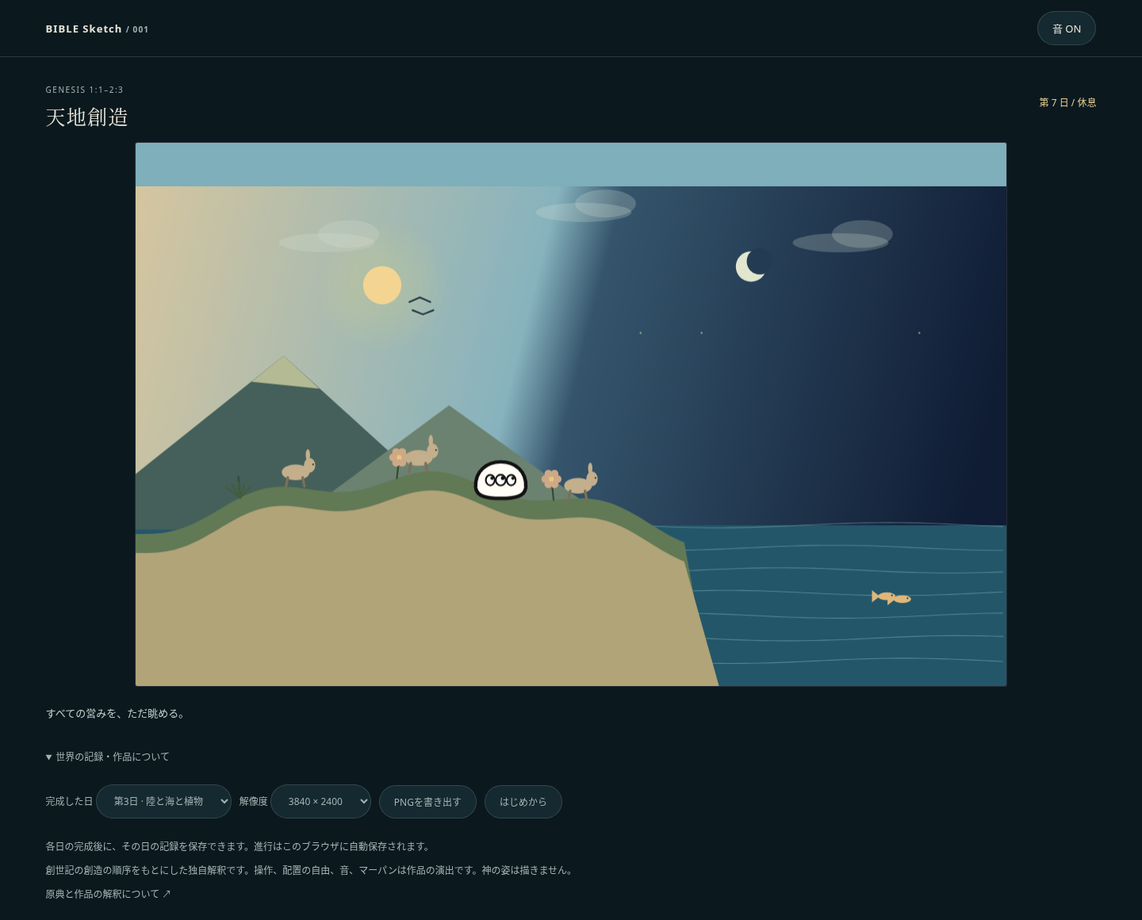
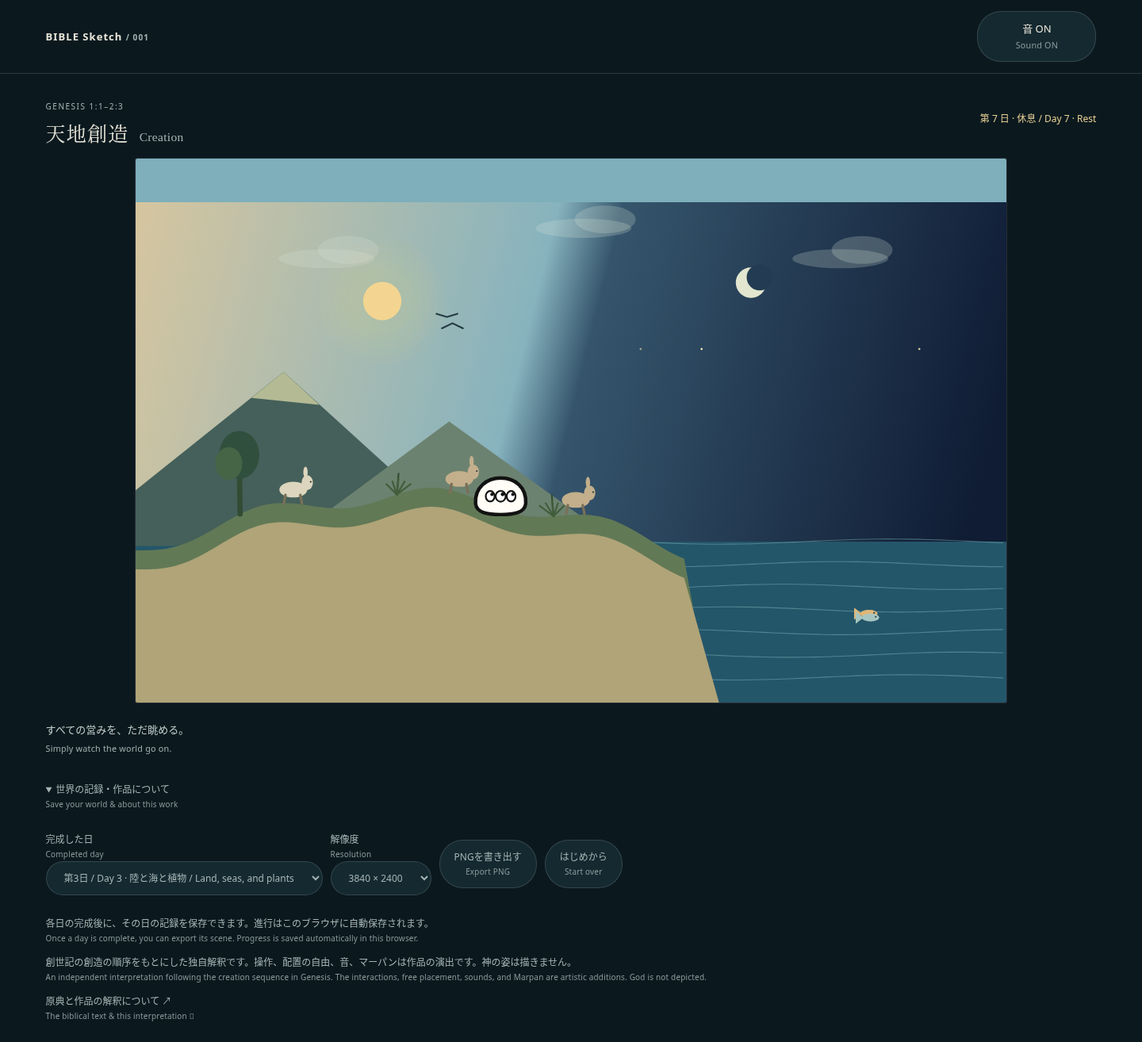
Add Japanese and English throughout BIBLE Sketch

diff --git a/001-creation/sketch.js b/001-creation/sketch.js
@@ -3,18 +3,21 @@ const $=s=>document.querySelector(s), KEY='bible-sketch-creation-v1';
 const fresh=()=>({day:1,light:false,split:0,land:0,plants:[],stars:[],fish:[],birds:[],animals:[],sun:{x:.17,y:.18,placed:false},moon:{x:.83,y:.18,placed:false},marpan:false});
 let world=fresh(),records={},audio=new Soundscape(),marpan,canvas,drag=null,lightAt=-10,exporting=false,blobURL;
 try{const data=JSON.parse(localStorage.getItem(KEY));if(data?.version===1&&data.world?.day>=1&&data.world.day<=7){world=data.world;world.plants.forEach(p=>p.born=-2);records=data.records||{};}}catch(e){}
+const bilingual=(ja,en)=>`${ja} / ${en}`;
+const englishTitles=['','Light and darkness','Sky and waters','Land, seas, and plants','Sun, moon, and stars','Fish and birds','Animals and humankind','Rest'];
 const titles=['','光と闇','天と水','陸と海と植物','太陽と月と星','魚と鳥','動物と人間','休息'];
 function ready(s=world){return [false,s.light,s.split>=1,s.land>=1&&s.plants.length>=3,s.sun.placed&&s.moon.placed&&s.stars.length>=3,s.fish.length>=2&&s.birds.length>=2,s.animals.length>=3&&s.marpan,true][s.day];}
-function persist(){try{localStorage.setItem(KEY,JSON.stringify({version:1,world,records}));}catch(e){$('#notice').textContent='自動保存できません。ページを閉じる前にPNGを保存してください。';}}
-function update(){const s=world;$('#day').textContent=`第 ${s.day} 日 / ${titles[s.day]}`;const hints=['',s.light?'光が生まれました。昼と夜を眺めて、次の日へ。':'暗闇に触れて、光を生み出す。',s.split>=1?'水の間に、空ができました。':'水を上下にドラッグして、空をひらく。',s.land<1?'水を左右にドラッグして、陸を呼び出す。':`陸をタップして植物を育てる。${s.plants.length} / 3 以上`,!s.sun.placed||!s.moon.placed?'上部の太陽と月を、それぞれ空へドラッグ。':`右半分の夜空をタップして星を灯す。${s.stars.length} / 3 以上`,`海に魚、空に鳥を。魚 ${s.fish.length} / 2・鳥 ${s.birds.length} / 2 以上`,s.animals.length<3?`陸に触れて動物を生み出す。${s.animals.length} / 3 以上`:s.marpan?'マーパンも、この世界の一員になりました。':'最後に「マーパンを迎える」を押す。','すべての営みを、ただ眺める。'];$('#hint').textContent=hints[s.day];$('#next').hidden=s.day===7;$('#next').disabled=!ready();$('#welcome').hidden=!(s.day===6&&s.animals.length>=3&&!s.marpan);
+function persist(){try{localStorage.setItem(KEY,JSON.stringify({version:1,world,records}));}catch(e){$('#notice').textContent=bilingual('自動保存できません。ページを閉じる前にPNGを保存してください。','Progress could not be saved. Export your PNGs before closing this page.');}}
+function update(){const s=world;$('#day').textContent=`第 ${s.day} 日 · ${titles[s.day]} / Day ${s.day} · ${englishTitles[s.day]}`;const hints=['',s.light?'光が生まれました。昼と夜を眺めて、次の日へ。':'暗闇に触れて、光を生み出す。',s.split>=1?'水の間に、空ができました。':'水を上下にドラッグして、空をひらく。',s.land<1?'水を左右にドラッグして、陸を呼び出す。':`陸をタップして植物を育てる。${s.plants.length} / 3 以上`,!s.sun.placed||!s.moon.placed?'上部の太陽と月を、それぞれ空へドラッグ。':`右半分の夜空をタップして星を灯す。${s.stars.length} / 3 以上`,`海に魚、空に鳥を。魚 ${s.fish.length} / 2・鳥 ${s.birds.length} / 2 以上`,s.animals.length<3?`陸に触れて動物を生み出す。${s.animals.length} / 3 以上`:s.marpan?'マーパンも、この世界の一員になりました。':'最後に「マーパンを迎える」を押す。','すべての営みを、ただ眺める。'];const englishHints=['',s.light?'Light is born. Take in day and night, then continue.':'Touch the darkness to bring forth light.',s.split>=1?'The sky has opened between the waters.':'Drag the waters up or down to open the sky.',s.land<1?'Drag the waters left or right to reveal the land.':`Tap the land to grow plants. ${s.plants.length} / at least 3`,!s.sun.placed||!s.moon.placed?'Drag both the sun and the moon into the sky.':`Tap the night sky on the right to add stars. ${s.stars.length} / at least 3`,`Tap the sea for fish and the sky for birds. Fish ${s.fish.length} / at least 2 · Birds ${s.birds.length} / at least 2`,s.animals.length<3?`Tap the land to create animals. ${s.animals.length} / at least 3`:s.marpan?'Marpan is now part of this world.':'Finally, press “Welcome Marpan.”','Simply watch the world go on.'];$('#hint').replaceChildren(document.createTextNode(hints[s.day]));const englishHint=document.createElement('span');englishHint.lang='en';englishHint.className='en';englishHint.textContent=englishHints[s.day];$('#hint').append(englishHint);$('#next').hidden=s.day===7;$('#next').disabled=!ready();$('#welcome').hidden=!(s.day===6&&s.animals.length>=3&&!s.marpan);
 if(ready()){records[s.day]={world:structuredClone(s),time:millis()/1000};}
-const selected=$('#export-day').value;$('#export-day').replaceChildren(...Object.keys(records).map(d=>new Option(`第${d}日 · ${titles[d]}`,d)));if(records[selected])$('#export-day').value=selected;else $('#export-day').value=String(s.day);$('#export').disabled=!Object.keys(records).length;persist();}
-function setup(){const stage=$('#stage');canvas=createCanvas(stage.clientWidth,stage.clientHeight);canvas.parent(stage);pixelDensity(Math.min(devicePixelRatio,2));frameRate(30);marpan=new Marpan25D({autoBlink:true,bodyColor:'#fffdf5'});const welcome=document.createElement('button');welcome.id='welcome';welcome.textContent='マーパンを迎える';welcome.hidden=true;$('#next').before(welcome);welcome.onclick=()=>{world.marpan=true;audio.tone(220);update();};canvas.elt.addEventListener('pointerdown',down);canvas.elt.addEventListener('pointermove',move);canvas.elt.addEventListener('pointerup',up);canvas.elt.addEventListener('pointercancel',()=>drag=null);canvas.elt.addEventListener('lostpointercapture',()=>drag=null);new ResizeObserver(()=>{if(!exporting)resizeCanvas(stage.clientWidth,stage.clientHeight);}).observe(stage);update();}
+const selected=$('#export-day').value;$('#export-day').replaceChildren(...Object.keys(records).map(d=>new Option(`第${d}日 / Day ${d} · ${titles[d]} / ${englishTitles[d]}`,d)));if(records[selected])$('#export-day').value=selected;else $('#export-day').value=String(s.day);$('#export').disabled=!Object.keys(records).length;persist();}
+function setup(){const stage=$('#stage');canvas=createCanvas(stage.clientWidth,stage.clientHeight);canvas.parent(stage);pixelDensity(Math.min(devicePixelRatio,2));frameRate(30);marpan=new Marpan25D({autoBlink:true,bodyColor:'#fffdf5'});const welcome=document.createElement('button');welcome.id='welcome';welcome.textContent=bilingual('マーパンを迎える','Welcome Marpan');welcome.hidden=true;$('#next').before(welcome);welcome.onclick=()=>{world.marpan=true;audio.tone(220);update();};canvas.elt.addEventListener('pointerdown',down);canvas.elt.addEventListener('pointermove',move);canvas.elt.addEventListener('pointerup',up);canvas.elt.addEventListener('pointercancel',()=>drag=null);canvas.elt.addEventListener('lostpointercapture',()=>drag=null);new ResizeObserver(()=>{if(!exporting)resizeCanvas(stage.clientWidth,stage.clientHeight);}).observe(stage);update();}
 function draw(){if(exporting)return;render(world,millis()/1000);audio.tick(world.day,millis()/1000);}
 function landY(x){return .72-.10*Math.sin(Math.PI*Math.min(x/.63,1))+.016*Math.sin(x*32);}
 function onLand(x,y){return world.land>=1&&x<.63&&y>=landY(x)-.025&&y<.94;}
 function entity(x,y){return {x,y,seed:Math.random()*100,born:millis()/1000};}
-async function activate(){await audio.start();audio.setDay(world.day);$('#sound').textContent=audio.on?'音 ON':'音 OFF';$('#sound').setAttribute('aria-pressed',String(audio.on));}
+function soundLabel(){const button=$('#sound');button.replaceChildren(document.createTextNode(audio.on?'音 ON':'音 OFF'));const en=document.createElement('span');en.lang='en';en.className='en';en.textContent=audio.on?'Sound ON':'Sound OFF';button.append(en);button.setAttribute('aria-pressed',String(audio.on));}
+async function activate(){await audio.start();audio.setDay(world.day);soundLabel();}
 function position(e){const r=canvas.elt.getBoundingClientRect();return{x:constrain((e.clientX-r.left)/r.width,0,1),y:constrain((e.clientY-r.top)/r.height,0,1)};}
 function down(e){e.preventDefault();activate();const p=position(e);drag={...p,start:p,target:null};if(world.day===4){for(const name of ['sun','moon'])if(dist(p.x*1000,p.y*625,world[name].x*1000,world[name].y*625)<55)drag.target=name;}canvas.elt.setPointerCapture(e.pointerId);}
 function move(e){if(!drag)return;const p=position(e),s=world;drag.x=p.x;drag.y=p.y;if(s.day===2)s.split=Math.max(s.split,Math.min(1,Math.abs(p.y-drag.start.y)*4));if(s.day===3&&s.land<1)s.land=Math.max(s.land,Math.min(1,Math.abs(p.x-drag.start.x)*4));if(s.day===4&&drag.target){s[drag.target].x=constrain(p.x,.06,.94);s[drag.target].y=constrain(p.y,.08,.46);} }
@@ -26,7 +29,7 @@ if(s.day>=2){const top=310-s.split*260,bottom=310+s.split*130;fill('#7eafba');re
 if(s.day>=4){fill(5,15,38,(1-cos(t*.065)) * 20);rect(0,50,1000,390);}
 if(s.land>0){push();translate(0,(1-s.land)*300);fill('#45605a');triangle(-80,445,170,245,390,445);fill('#6c8270');triangle(160,450,360,302,580,460);fill('#b4ba94');triangle(133,275,170,245,211,283);fill('#627956');beginShape();vertex(0,625);for(let x=0;x<=630;x+=5)vertex(x,landY(x/1000)*625);vertex(660,625);endShape(CLOSE);fill('#b0a478');beginShape();vertex(0,625);for(let x=0;x<=630;x+=5)vertex(x,landY(x/1000)*625+22);vertex(670,625);endShape(CLOSE);pop();}
 for(const star of s.stars){fill(255,235,184,180+sin(t+star.seed)*65);circle(star.x*1000,star.y*625,2.5);}
-if(s.day>=4){for(const name of ['sun','moon']){const o=s[name];const phase=t*.065+(name==='moon'?PI:0),dy=o.placed?sin(phase)*24:0;push();translate(o.x*1000+(o.placed?cos(phase)*35:0),o.y*625+dy);if(name==='sun'){for(let i=5;i>0;i--){fill(244,212,137,8);circle(0,0,60+i*17);}fill('#f3d591');circle(0,0,44);}else{fill('#e2e6cf');circle(0,0,35);fill('#243c53');circle(10,-6,30);}if(!o.placed){fill('#e8e4d8');textSize(12);textAlign(CENTER);text(name==='sun'?'太陽 ↕':'月 ↕',0,47);}pop();}}
+if(s.day>=4){for(const name of ['sun','moon']){const o=s[name];const phase=t*.065+(name==='moon'?PI:0),dy=o.placed?sin(phase)*24:0;push();translate(o.x*1000+(o.placed?cos(phase)*35:0),o.y*625+dy);if(name==='sun'){for(let i=5;i>0;i--){fill(244,212,137,8);circle(0,0,60+i*17);}fill('#f3d591');circle(0,0,44);}else{fill('#e2e6cf');circle(0,0,35);fill('#243c53');circle(10,-6,30);}if(!o.placed){fill('#e8e4d8');textSize(12);textAlign(CENTER);text(name==='sun'?'太陽 / Sun ↕':'月 / Moon ↕',0,47);}pop();}}
 for(const p of s.plants){const growth=constrain((t-p.born)/1.2,0,1);push();translate(p.x*1000,p.y*625);scale(growth);const type=Math.floor(p.seed)%3,sway=sin(t+p.seed)*3;stroke('#324c34');strokeWeight(type===0?6:2);line(0,0,sway,type===0?-65:-24);noStroke();if(type===0){fill('#304f3d');ellipse(sway,-68,46,55);fill('#466547');ellipse(sway-12,-58,31,38);}else if(type===1){fill('#cfa987');for(let a=0;a<6;a++){ellipse(sway+cos(a*PI/3)*7,-24+sin(a*PI/3)*7,9,9);}fill('#e6ca7d');circle(sway,-24,6);}else{stroke('#425e3b');for(let i=-2;i<=2;i++)line(0,0,i*7+sway,-18+abs(i)*3);}pop();}
 for(const f of s.fish){const x=660+((f.x*1000-660+t*(7+f.seed%10))%310),y=constrain(f.y*625,465,600)+sin(t+f.seed)*4;push();translate(x,y);fill(f.seed%2>1?'#e0b77a':'#a7c5c0');ellipse(0,0,20,9);triangle(-8,0,-17,-7,-17,7);fill('#153b4c');circle(6,-1,2);pop();}
 for(const b of s.birds){const x=(b.x*1000+t*(9+b.seed%10))%1050-25,y=b.y*625+sin(t+b.seed)*10;stroke('#243a43');strokeWeight(2);noFill();const flap=sin(t*4+b.seed)*7;beginShape();vertex(x-12,y+flap);vertex(x,y);vertex(x+12,y+flap);endShape();noStroke();}
@@ -35,8 +38,8 @@ if(s.marpan){const x=410+sin(t*.18)*12;marpan.drawAt(x,landY(x/1000)*625-17+sin(
 // Finely spaced grain is deterministic, so exports match the scene without assets.
 fill(255,255,230,9);for(let i=0;i<230;i++)circle((i*137.3)%1000,(i*79.7)%625,1);pop();}
 $('#next').onclick=()=>{if(!ready()||world.day===7)return;world.day++;audio.setDay(world.day);update();};
-$('#sound').onclick=async()=>{if(!audio.ctx)await activate();else{audio.toggle();$('#sound').textContent=audio.on?'音 ON':'音 OFF';$('#sound').setAttribute('aria-pressed',String(audio.on));}};
-$('#reset').onclick=()=>{if(confirm('この世界と各日の記録を消して、はじめから始めますか？')){world=fresh();records={};lightAt=-10;audio.layers.forEach(g=>g.gain.setTargetAtTime(0,audio.ctx.currentTime,.3));audio.layers=[];update();}};
+$('#sound').onclick=async()=>{if(!audio.ctx)await activate();else{audio.toggle();soundLabel();}};
+$('#reset').onclick=()=>{if(confirm(bilingual('この世界と各日の記録を消して、はじめから始めますか？','Delete this world and all daily records and start over?'))){world=fresh();records={};lightAt=-10;audio.layers.forEach(g=>g.gain.setTargetAtTime(0,audio.ctx.currentTime,.3));audio.layers=[];update();}};
 $('#stage').addEventListener('keydown',e=>{if(e.key!=='Enter'&&e.key!==' ')return;e.preventDefault();activate();const s=world;if(s.day===2)s.split=1;else if(s.day===3&&s.land<1)s.land=1;else if(s.day===4){s.sun.placed=s.moon.placed=true;tap(.55+Math.random()*.4,.1+Math.random()*.3);}else if(s.day===5){tap(.8,.84);tap(.3,.25);}else tap(.08+Math.random()*.48,.8);update();});
-$('#export').onclick=()=>{const record=records[$('#export-day').value];if(!record)return;exporting=true;$('#export').disabled=true;const w=width,h=height,d=pixelDensity();try{pixelDensity(1);const out=Number($('#resolution').value);resizeCanvas(out,out*625/1000,true);render(record.world,Math.max(record.time,...record.world.plants.map(p=>p.born+2)));canvas.elt.toBlob(blob=>{if(!blob){$('#notice').textContent='書き出せませんでした。低い解像度でお試しください。';return;}if(blobURL)URL.revokeObjectURL(blobURL);blobURL=URL.createObjectURL(blob);$('#image').src=blobURL;$('#download').href=blobURL;$('#download').download=`bible-sketch-001-day-${record.world.day}.png`;$('#preview').showModal();$('#share').onclick=async()=>{const file=new File([blob],$('#download').download,{type:'image/png'});try{if(navigator.canShare?.({files:[file]}))await navigator.share({files:[file],title:'天地創造'});else $('#notice').textContent='共有に非対応です。PNGを保存、または画像を長押ししてください。';}catch(e){if(e.name!=='AbortError')$('#notice').textContent='共有できませんでした。画像の長押し保存をお試しください。';}};},'image/png');}catch(e){$('#notice').textContent='書き出しに失敗しました。低い解像度でお試しください。';}finally{pixelDensity(d);resizeCanvas(w,h,true);exporting=false;$('#export').disabled=false;}};
+$('#export').onclick=()=>{const record=records[$('#export-day').value];if(!record)return;exporting=true;$('#export').disabled=true;const w=width,h=height,d=pixelDensity();try{pixelDensity(1);const out=Number($('#resolution').value);resizeCanvas(out,out*625/1000,true);render(record.world,Math.max(record.time,...record.world.plants.map(p=>p.born+2)));canvas.elt.toBlob(blob=>{if(!blob){$('#notice').textContent=bilingual('書き出せませんでした。低い解像度でお試しください。','Could not export the image. Try a lower resolution.');return;}if(blobURL)URL.revokeObjectURL(blobURL);blobURL=URL.createObjectURL(blob);$('#image').src=blobURL;$('#download').href=blobURL;$('#download').download=`bible-sketch-001-day-${record.world.day}.png`;$('#preview').showModal();$('#share').onclick=async()=>{const file=new File([blob],$('#download').download,{type:'image/png'});try{if(navigator.canShare?.({files:[file]}))await navigator.share({files:[file],title:'天地創造 / Creation'});else $('#notice').textContent=bilingual('共有に非対応です。PNGを保存、または画像を長押ししてください。','Sharing is not supported. Use Save PNG, or touch and hold the image.');}catch(e){if(e.name!=='AbortError')$('#notice').textContent=bilingual('共有できませんでした。画像の長押し保存をお試しください。','Could not share the image. Try touching and holding it to save.');}};},'image/png');}catch(e){$('#notice').textContent=bilingual('書き出しに失敗しました。低い解像度でお試しください。','Export failed. Try a lower resolution.');}finally{pixelDensity(d);resizeCanvas(w,h,true);exporting=false;$('#export').disabled=false;}};
 $('#close').onclick=()=>$('#preview').close();document.addEventListener('visibilitychange',()=>{if(audio.ctx){if(document.hidden)audio.ctx.suspend();else if(audio.on)audio.ctx.resume().catch(()=>{});}});

diff --git a/001-creation/index.html b/001-creation/index.html
@@ -1,1 +1,1 @@
-<!doctype html><html lang="ja"><meta charset="utf-8"><meta name="viewport" content="width=device-width,initial-scale=1"><title>天地創造 — BIBLE Sketch No.001</title><link rel="stylesheet" href="../shared/style.css"><body class="experience"><header><a href="../">BIBLE Sketch <span> / 001</span></a><button id="sound" aria-pressed="false">音を有効にする</button></header><div class="heading"><div><p>GENESIS 1:1–2:3</p><h1>天地創造</h1></div><span class="day" id="day"></span></div><main id="stage" tabindex="0" aria-label="創造する世界。タップとドラッグで操作。キーボードではEnterで創造できます。"></main><div class="controls"><p id="hint" role="status"></p><button id="next" disabled>次の日へ →</button></div><div class="tools"><details><summary>世界の記録・作品について</summary><div class="tool-row"><label>完成した日 <select id="export-day" aria-label="書き出す日"></select></label><label>解像度 <select id="resolution"><option value="2560">2560 × 1600</option><option value="3840">3840 × 2400</option></select></label><button id="export" disabled>PNGを書き出す</button><button id="reset">はじめから</button></div><p id="notice">各日の完成後に、その日の記録を保存できます。進行はこのブラウザに自動保存されます。</p><p>創世記の創造の順序をもとにした独自解釈です。操作、配置の自由、音、マーパンは作品の演出です。神の姿は描きません。</p><a href="../docs/about.html">原典と作品の解釈について ↗</a></details></div><dialog id="preview"><img id="image" alt="完成した世界のPNGプレビュー"><p>スマートフォンでは画像を長押しして保存できます。</p><div class="tool-row"><a id="download" download>PNGを保存 ↗</a><button id="share">共有・写真へ保存</button><button id="close">閉じる</button></div></dialog><script src="../vendor/p5.min.js"></script><script src="../shared/marpan-25d.js"></script><script src="sound.js"></script><script src="sketch.js"></script></body></html>
+<!doctype html><html lang="ja"><meta charset="utf-8"><meta name="viewport" content="width=device-width,initial-scale=1"><title>天地創造 / Creation — BIBLE Sketch No.001</title><link rel="stylesheet" href="../shared/style.css"><body class="experience"><header><a href="../">BIBLE Sketch <span> / 001</span></a><button id="sound" aria-pressed="false">音を有効にする<span class="en" lang="en">Enable sound</span></button></header><div class="heading"><div><p>GENESIS 1:1–2:3</p><h1>天地創造 <span class="en-title" lang="en">Creation</span></h1></div><span class="day" id="day"></span></div><main id="stage" tabindex="0" aria-label="創造する世界。タップとドラッグで操作。キーボードではEnterで創造できます。 / Tap and drag to create your world. Keyboard: press Enter to create."></main><div class="controls"><p id="hint" role="status"></p><button id="next" disabled>次の日へ →<span class="en" lang="en">Next day →</span></button></div><div class="tools"><details><summary>世界の記録・作品について<span class="en" lang="en">Save your world & about this work</span></summary><div class="tool-row"><label>完成した日 <span class="en" lang="en">Completed day </span><select id="export-day" aria-label="書き出す日 / Day to export"></select></label><label>解像度 <span class="en" lang="en">Resolution </span><select id="resolution"><option value="2560">2560 × 1600</option><option value="3840">3840 × 2400</option></select></label><button id="export" disabled>PNGを書き出す<span class="en" lang="en">Export PNG</span></button><button id="reset">はじめから<span class="en" lang="en">Start over</span></button></div><p id="notice">各日の完成後に、その日の記録を保存できます。進行はこのブラウザに自動保存されます。<span class="en" lang="en">Once a day is complete, you can export its scene. Progress is saved automatically in this browser.</span></p><p>創世記の創造の順序をもとにした独自解釈です。操作、配置の自由、音、マーパンは作品の演出です。神の姿は描きません。<span class="en" lang="en">An independent interpretation following the creation sequence in Genesis. The interactions, free placement, sounds, and Marpan are artistic additions. God is not depicted.</span></p><a href="../docs/about.html">原典と作品の解釈について ↗<span class="en" lang="en">The biblical text & this interpretation ↗</span></a></details></div><dialog id="preview"><img id="image" alt="完成した世界のPNGプレビュー / PNG preview of your completed world"><p>スマートフォンでは画像を長押しして保存できます。<span class="en" lang="en">On a smartphone, touch and hold the image to save it.</span></p><div class="tool-row"><a id="download" download>PNGを保存 ↗<span class="en" lang="en">Save PNG ↗</span></a><button id="share">共有・写真へ保存<span class="en" lang="en">Share / save image</span></button><button id="close">閉じる<span class="en" lang="en">Close</span></button></div></dialog><script src="../vendor/p5.min.js"></script><script src="../shared/marpan-25d.js"></script><script src="sound.js"></script><script src="sketch.js"></script></body></html>

diff --git a/shared/style.css b/shared/style.css
@@ -1,3 +1,6 @@
 :root{color-scheme:dark;--paper:#e8e4d8;--muted:#a4b4b3;--line:#ffffff24;--accent:#e6ce92}*{box-sizing:border-box}body{margin:0;background:#0b191f;color:var(--paper);font-family:system-ui,-apple-system,'Noto Sans JP',sans-serif}a{color:inherit;text-decoration:none}button,select{font:inherit;color:inherit;background:#142930;border:1px solid var(--line);border-radius:30px;padding:11px 18px;cursor:pointer}button:disabled{opacity:.35;cursor:default}button:hover:enabled,a:hover{color:var(--accent)}:focus-visible{outline:2px solid var(--accent);outline-offset:5px}header{display:flex;justify-content:space-between;align-items:center;padding:25px 5vw;border-bottom:1px solid var(--line);letter-spacing:.08em;font-size:13px}header>a{font-weight:600}header span{color:var(--muted);font-size:10px}.gallery main{max-width:1120px;margin:70px auto;padding:0 5vw}.eyebrow{font-size:12px;letter-spacing:.25em;color:var(--accent)}h1{font-family:Georgia,serif;font-size:clamp(70px,13vw,150px);font-weight:400;line-height:.85;letter-spacing:-.05em;margin:30px 0}h1 i{font-weight:400;color:#b8c7bf}.intro{line-height:2;color:var(--muted);margin:35px 0 60px}.work{display:grid;grid-template-columns:1.4fr 1fr;border-top:1px solid var(--line);padding-top:24px;gap:40px}.cover{position:relative;overflow:hidden;min-height:280px;background:linear-gradient(130deg,#d5bd89,#82aeb0 48%,#233a53);border-radius:3px}.orb{position:absolute;width:70px;height:70px;border-radius:50%;background:#f8e5aa;top:40px;left:25%;box-shadow:0 0 70px #eed29e}.hill{position:absolute;width:130%;height:160px;background:#243f3b;border-radius:50%;bottom:-70px;left:-40%}.cover small{position:absolute;bottom:25px;right:25px;letter-spacing:.2em}.work-info{align-self:center}.work-info>span{font-size:10px;letter-spacing:.15em;color:var(--accent)}h2{font-family:serif;font-weight:400;font-size:36px}h2 b{float:right;font-weight:400}.work-info p,footer{color:var(--muted);font-size:12px;line-height:1.9}footer{margin-top:65px;padding:25px 0;border-top:1px solid var(--line)}.experience{min-height:100dvh;display:flex;flex-direction:column}.experience header{padding:14px 4vw}.heading{padding:24px 4vw 16px;display:flex;align-items:center;justify-content:space-between;gap:15px}.heading h1{font-family:serif;font-size:25px;letter-spacing:.05em;line-height:1.3;margin:0}.heading p{font-size:10px;color:var(--muted);letter-spacing:.15em}.day{color:var(--accent);font-size:12px}#stage{position:relative;margin:0 4vw;min-height:260px;height: min(62vh,650px);border:1px solid var(--line);overflow:hidden;border-radius:3px;background:#050b15}canvas{display:block;width:100%!important;height:100%!important;touch-action:none}#stage:focus-visible{outline-offset:1px}.controls{display:flex;justify-content:space-between;align-items:center;gap:15px;padding:22px 4vw}#hint{font-size:13px;line-height:1.8;margin:0;color:#c2ceca}#next{white-space:nowrap;background:var(--paper);color:#18312e}.tools{margin:0 4vw 24px;color:var(--muted);font-size:12px}summary{cursor:pointer;padding:12px 0}.tool-row{display:flex;flex-wrap:wrap;align-items:center;gap:10px;padding:14px 0}dialog{background:#10232a;color:var(--paper);border:1px solid var(--line);max-width:94vw;width:620px;border-radius:8px}dialog::backdrop{background:#000b}dialog img{width:100%;height:auto}dialog p{font-size:13px;line-height:1.8}.sr-only{position:absolute;width:1px;height:1px;overflow:hidden;clip-path:inset(50%)}@media(max-width:600px){.work{grid-template-columns:1fr;gap:15px}.gallery main{margin-top:50px}.cover{min-height:220px}#stage{margin:0 12px;height:55dvh}.heading{padding:18px 16px}.controls{padding:18px 16px;align-items:flex-start}.controls p{max-width:62%}button{padding:10px 14px;font-size:12px}.tools{margin:0 16px}.heading h1{font-size:22px}}
 /* Keep circles and the shared Marpan design intact at every viewport size. */
 #stage{width:calc(100% - 8vw);max-width:1100px;align-self:center;aspect-ratio:8/5;height:auto;min-height:0;margin-inline:auto;flex-shrink:0}@media(max-width:600px){#stage{width:calc(100% - 24px);height:auto;min-height:0}.controls{flex-wrap:wrap}.controls p{flex:1;min-width:170px;max-width:none}}
+/* Japanese and English are always shown together. */
+.en{display:block;font-size:.83em;line-height:1.6;letter-spacing:.02em;font-weight:400;opacity:.82;margin-top:.3em}.en-title{display:inline-block;font:400 .62em Georgia,serif;letter-spacing:.02em;color:var(--muted);margin-left:.35em}.day{max-width:42%;text-align:right;line-height:1.7;overflow-wrap:anywhere}.eyebrow .en{text-transform:none;letter-spacing:.1em}.cover small{max-width:80%}button{white-space:normal}.tool-row label{max-width:100%}select{max-width:100%;font-size:12px}.controls{align-items:center}.controls #hint{flex:1;min-width:0}.controls button{flex-shrink:0}#next{white-space:normal}#welcome{max-width:220px}dialog a{line-height:1.6}@media(max-width:600px){header{gap:12px}.heading h1 .en-title{display:block;margin:4px 0 0}.day{font-size:10px;max-width:48%}.controls{align-items:flex-start;gap:12px}.controls #hint{flex-basis:100%}.controls #next{margin-left:auto}.tool-row label{width:100%}.tool-row select{max-width:100%}#welcome{max-width:60%}}
+#sound{width:150px;min-height:60px;flex-shrink:0}

diff --git a/docs/about.html b/docs/about.html
@@ -1,1 +1,1 @@
-<!doctype html><html lang="ja"><meta charset="utf-8"><meta name="viewport" content="width=device-width,initial-scale=1"><title>天地創造について</title><link rel="stylesheet" href="../shared/style.css"><body class="gallery"><header><a href="../001-creation/">← 天地創造に戻る</a><span>BIBLE Sketch / NOTES</span></header><main><p class="eyebrow">NO.001 — ARTIST'S NOTE</p><h2>世界をつくる手。</h2><p class="intro">何かを加えるたびに、世界は少しずつ変わる。<br>けれど、それまでにつくったものは、そこに残り続ける。<br>この作品では、あなたの操作そのものが創造です。</p><h2>原典から受け継いだもの</h2><p class="intro">創世記1章〜2章3節の順序を用います。第1日：光と闇。第2日：水を分ける天。第3日：陸・海・植物。第4日：天体。第5日：水の生物と鳥。第6日：陸の動物と人間。第7日：休息。</p><h2>作品として加えたもの</h2><p class="intro">タップやドラッグ、配置や数の自由、達成に必要な数、成長アニメーション、横から見る風景、昼夜の共存、天体の短い周期、音風景は独自の演出です。マーパンは人間を象徴するキャラクターとして登場します。神の姿そのものは描きません。聖書の翻訳本文は引用していません。</p><p class="intro">宗教教育や原典の厳密な再現ではなく、創造する行為と、その後の世界を見守る時間を体験するための作品です。</p></main></body></html>
+<!doctype html><html lang="ja"><meta charset="utf-8"><meta name="viewport" content="width=device-width,initial-scale=1"><title>天地創造について / About Creation</title><link rel="stylesheet" href="../shared/style.css"><body class="gallery"><header><a href="../001-creation/">← 天地創造に戻る<span class="en" lang="en">← Back to Creation</span></a><span>BIBLE Sketch / NOTES</span></header><main><p class="eyebrow">NO.001 — ARTIST'S NOTE</p><h2>世界をつくる手。<span class="en" lang="en">The hands that create a world.</span></h2><p class="intro">何かを加えるたびに、世界は少しずつ変わる。<br>けれど、それまでにつくったものは、そこに残り続ける。<br>この作品では、あなたの操作そのものが創造です。<span class="en" lang="en">With each addition, the world changes a little.<br>Everything you have created remains.<br>In this work, your actions become the act of creation.</span></p><h2>原典から受け継いだもの<span class="en" lang="en">What comes from the biblical text</span></h2><p class="intro">創世記1章〜2章3節の順序を用います。第1日：光と闇。第2日：水を分ける天。第3日：陸・海・植物。第4日：天体。第5日：水の生物と鳥。第6日：陸の動物と人間。第7日：休息。<span class="en" lang="en">The sequence follows Genesis 1:1–2:3. Day 1: light and darkness. Day 2: the sky separating the waters. Day 3: land, seas, and plants. Day 4: celestial lights. Day 5: aquatic creatures and birds. Day 6: land animals and humankind. Day 7: rest.</span></p><h2>作品として加えたもの<span class="en" lang="en">What this work adds</span></h2><p class="intro">タップやドラッグ、配置や数の自由、達成に必要な数、成長アニメーション、横から見る風景、昼夜の共存、天体の短い周期、音風景は独自の演出です。マーパンは人間を象徴するキャラクターとして登場します。神の姿そのものは描きません。聖書の翻訳本文は引用していません。<span class="en" lang="en">Tapping and dragging, freedom of placement and number, completion thresholds, growth animations, the side-view landscape, coexisting day and night, short celestial cycles, and the soundscape are artistic additions. Marpan appears as a character symbolizing humankind. God is not depicted. No translated Bible text is quoted.</span></p><p class="intro">宗教教育や原典の厳密な再現ではなく、創造する行為と、その後の世界を見守る時間を体験するための作品です。<span class="en" lang="en">This work invites you to experience creation and the quiet time spent watching the resulting world. It is not intended as religious instruction or a literal recreation of the biblical text.</span></p></main></body></html>

diff --git a/index.html b/index.html
@@ -1,1 +1,1 @@
-<!doctype html><html lang="ja"><meta charset="utf-8"><meta name="viewport" content="width=device-width,initial-scale=1"><title>BIBLE Sketch</title><link rel="stylesheet" href="shared/style.css"><body class="gallery"><header><a href="./">BIBLE Sketch</a><span>INTERACTIVE STORIES</span></header><main><p class="eyebrow">物語に、触れる。</p><h1>BIBLE<br><i>Sketch</i></h1><p class="intro">読むことから、つくることへ。<br>聖書の物語を、あなたの手でほどいていく。</p><a class="work" href="001-creation/"><div class="cover"><span class="orb"></span><span class="hill"></span><small>はじめに、光があった。</small></div><div class="work-info"><span>NO. 001 · GENESIS 1:1–2:3</span><h2>天地創造 <b>↗</b></h2><p>六日間でつくる、あなただけの世界。</p></div></a><footer>聖書を題材にした独自のインタラクティブ解釈。宗教教育・原典の再現を目的とするものではありません。</footer></main></body></html>
+<!doctype html><html lang="ja"><meta charset="utf-8"><meta name="viewport" content="width=device-width,initial-scale=1"><title>BIBLE Sketch</title><link rel="stylesheet" href="shared/style.css"><body class="gallery"><header><a href="./">BIBLE Sketch</a><span>INTERACTIVE STORIES</span></header><main><p class="eyebrow">物語に、触れる。<span class="en" lang="en">Touch the story.</span></p><h1>BIBLE<br><i>Sketch</i></h1><p class="intro">読むことから、つくることへ。<br>聖書の物語を、あなたの手でほどいていく。<span class="en" lang="en">From reading to creating.<br>Explore the stories of the Bible with your own hands.</span></p><a class="work" href="001-creation/"><div class="cover"><span class="orb"></span><span class="hill"></span><small>はじめに、光があった。<span class="en" lang="en">In the beginning, there was light.</span></small></div><div class="work-info"><span>NO. 001 · GENESIS 1:1–2:3</span><h2>天地創造 <b>↗</b><span class="en" lang="en">Creation</span></h2><p>六日間でつくる、あなただけの世界。<span class="en" lang="en">Six days to create a world of your own.</span></p></div></a><footer>聖書を題材にした独自のインタラクティブ解釈。宗教教育・原典の再現を目的とするものではありません。<span class="en" lang="en">An independent interactive interpretation of biblical stories, rather than religious instruction or a literal recreation of the text.</span></footer></main></body></html>

diff --git a/001-creation/sound.js b/001-creation/sound.js
@@ -2,7 +2,7 @@
 class Soundscape {
   constructor(){this.ctx=null;this.on=true;this.layers=[];this.last=0;}
   async start(){try{if(!this.ctx){this.ctx=new(window.AudioContext||window.webkitAudioContext)();this.master=this.ctx.createGain();this.master.gain.value=.16;const compressor=this.ctx.createDynamicsCompressor();this.master.connect(compressor);compressor.connect(this.ctx.destination);}
-  await this.ctx.resume();}catch(e){document.querySelector('#notice').textContent='このブラウザでは音を開始できません。音なしで体験できます。';}}
+  await this.ctx.resume();}catch(e){document.querySelector('#notice').textContent='このブラウザでは音を開始できません。音なしで体験できます。 / Sound could not start in this browser. You can continue without sound.';}}
   setDay(day){if(!this.ctx)return;while(this.layers.length<day){const n=this.layers.length;const gain=this.ctx.createGain();gain.gain.value=0;gain.connect(this.master);if(n===1||n===2){const buffer=this.ctx.createBuffer(1,this.ctx.sampleRate*3,this.ctx.sampleRate);const data=buffer.getChannelData(0);for(let i=0;i<data.length;i++)data[i]=(Math.random()*2-1)*.12;const noise=this.ctx.createBufferSource();noise.buffer=buffer;noise.loop=true;const filter=this.ctx.createBiquadFilter();filter.type='lowpass';filter.frequency.value=n===1?450:1000;noise.connect(filter);filter.connect(gain);noise.start();}else{const osc=this.ctx.createOscillator();osc.type='sine';osc.frequency.value=[130.81,0,0,196,261.63,164.81,98][n];osc.connect(gain);osc.start();}gain.gain.setTargetAtTime(n<3?.16:.045,this.ctx.currentTime,2);this.layers.push(gain);}}
   tone(freq=440){if(!this.ctx||!this.on||this.ctx.state!=='running')return;const o=this.ctx.createOscillator(),g=this.ctx.createGain(),t=this.ctx.currentTime;o.frequency.setValueAtTime(freq,t);o.frequency.exponentialRampToValueAtTime(freq*.72,t+.4);g.gain.setValueAtTime(.09,t);g.gain.exponentialRampToValueAtTime(.0001,t+.8);o.connect(g);g.connect(this.master);o.start();o.stop(t+.85);}
   tick(day,t){if(!this.on||!this.ctx)return;if(t-this.last>7){this.last=t;if(day>=5)this.tone(800+Math.sin(t)*320);if(day>=6)setTimeout(()=>this.tone(180),800);}}

diff --git a/README.md b/README.md
@@ -85,3 +85,29 @@ p5.js 1.9.4は同リポジトリ同梱版から取得。LGPL-2.1（`vendor/p5-LI
 ## 検証
 
 `docs/verification.md` を参照。開発用テストは `npm ci` とChromiumを用意し、HTTPサーバー起動後 `CHROMIUM_PATH=/usr/bin/chromium npm test` を実行します。npm依存は通常配信に不要です。実機iOS/Androidの音声出力と保存先UIは自動テストでは保証できません。
+
+## 日本語・英語 / Japanese and English
+
+トップ、操作案内、各日の名称、保存・共有、確認・エラー表示、作品解説は日本語と英語の併記です。言語切替は不要です。保存済みの世界を引き継げます。英語の文言はHTML、動的な案内は `001-creation/sketch.js`、音声エラーは `sound.js` で管理します。
+
+The gallery, all seven days, interaction hints, controls, export and sharing dialogs, confirmation and error messages, and artist’s notes display Japanese and English together. No language switch is needed. Existing saved worlds remain compatible.
+
+### Quick start
+
+Serve the repository root with `python3 -m http.server 8000`, then open `http://localhost:8000/`. No build step or runtime package installation is required. p5.js is bundled locally; the soundscape uses Web Audio.
+
+1. Tap the darkness to create light.
+2. Drag the waters vertically to reveal the sky.
+3. Drag horizontally to reveal land, then tap the land to grow at least three plants.
+4. Drag both the sun and moon into the sky; tap the night sky on the right to add at least three stars.
+5. Tap the sea for at least two fish and the sky for at least two birds.
+6. Tap the land for at least three animals, then choose **Welcome Marpan**.
+7. Choose **Next day** to rest and watch the completed world. No new creations are added on day seven.
+
+The first interaction enables sound. Use the sound button to mute it. With the world focused, Enter or Space provides a keyboard alternative. Your world and each completed day are saved in this browser; clearing browser storage deletes them.
+
+Open **Save your world & about this work** to export any completed day as a 2560×1600 or 3840×2400 PNG without controls. On phones, save the image from the preview or use supported file sharing. Actual device menus vary.
+
+The creation sequence follows Genesis 1:1–2:3. Interactions, freedom of placement and number, completion thresholds, animation, coexisting day and night, short celestial cycles, sound, and Marpan as a symbol of humankind are artistic additions. God is not depicted, and no translated Bible text is quoted. This is an independent artistic interpretation, not religious instruction.
+
+For GitHub Pages, select **Settings → Pages → Deploy from a branch → main → /(root)**. The site URL is https://sawanoto.github.io/BibleSketch/ . To add another work, create its own numbered folder (for example `002-title/`) and add a card to `index.html`. Keep existing work URLs stable.

diff --git a/docs/verification.md b/docs/verification.md
@@ -43,3 +43,12 @@ CHROMIUM_PATH=/usr/bin/chromium npm test
 ```
 
 `CHROMIUM_PATH` は使用環境の実際のChromium実行ファイルに変更する。
+
+## 日英併記の追加確認 — 2026-10-20
+
+- トップ、作品、作品解説に英語を常時併記。操作案内、日数・日名、PNG保存・共有、確認・エラーも対象。
+- 英語の各日案内を表示した状態で、PCマウス・390pxタッチの1〜7日通し操作、7日分のPNGと3840×2400出力、消音、再読み込み・回転の既存テストが成功。
+- トップ・作品解説・保存ツールを開いた作品画面を320 / 390 / 1440px幅で確認し、横方向のはみ出しなし。
+- 音声ボタンは日英2行と固定サイズを保ち、最初の操作中に画面が動いてタップ判定が失敗する問題を修正。
+- `desktop.png` / `mobile.png` を日英併記版に更新。
+- 実機iOS / Androidでの聴感・保存UIの制約は従来と同じ。公開反映はPRのマージ後。
